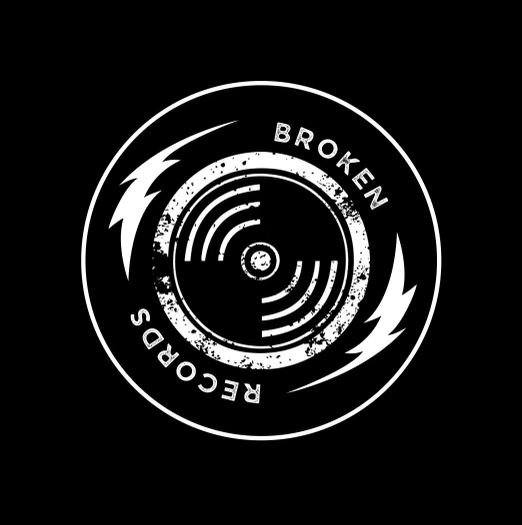
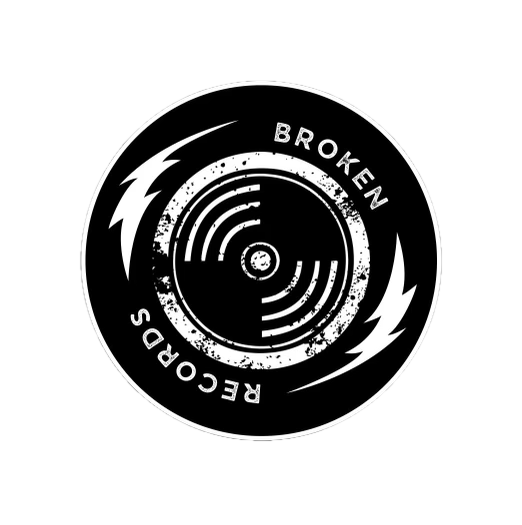
added image

diff --git a/src/components/Hero.jsx b/src/components/Hero.jsx
@@ -4,7 +4,7 @@ function Hero() {
     return (
         <div className="hero">
             <div>
-                <img src="/src/assets/broken_records.png" alt="" />
+                <img src="./src/assets/broken_records.png" alt="Broken Records Logo" />
                 {/* <h2>Carmel Valley's Premier 90's Rock Band</h2> */}
             </div>
         </div>

diff --git a/index.html b/index.html
@@ -9,7 +9,7 @@
     <meta name="viewport" content="width=device-width, initial-scale=1.0" />
     <title>The Broken Records</title>
   </head>
-  <body class="bg-photo">
+  <body>
     <div id="root"></div>
     <script type="module" src="/src/main.jsx"></script>
   </body>

diff --git a/src/index.css b/src/index.css
@@ -34,9 +34,9 @@ h1{
   ;
 
 }
-img{
+/* img{
   border-radius: 50%;
-}
+} */
 a{
   color: white;
 }
